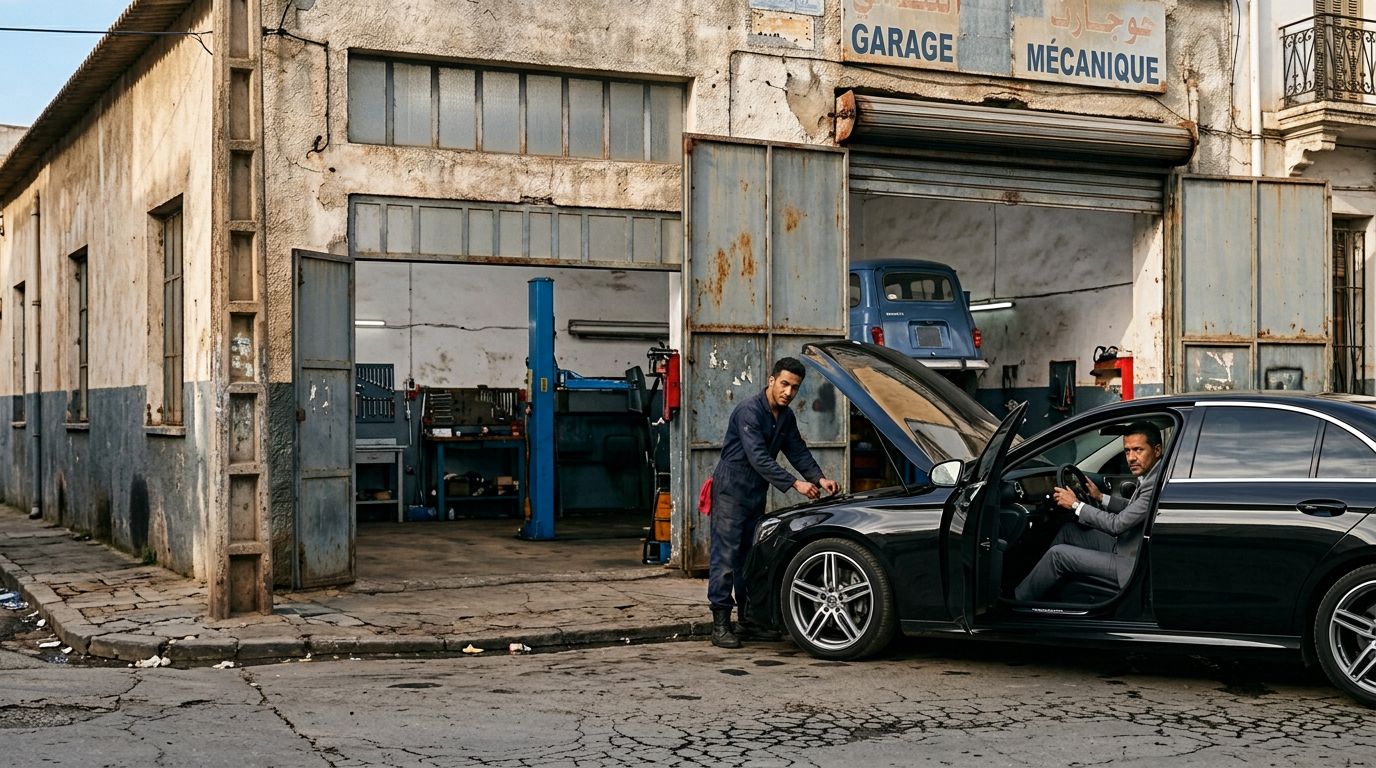
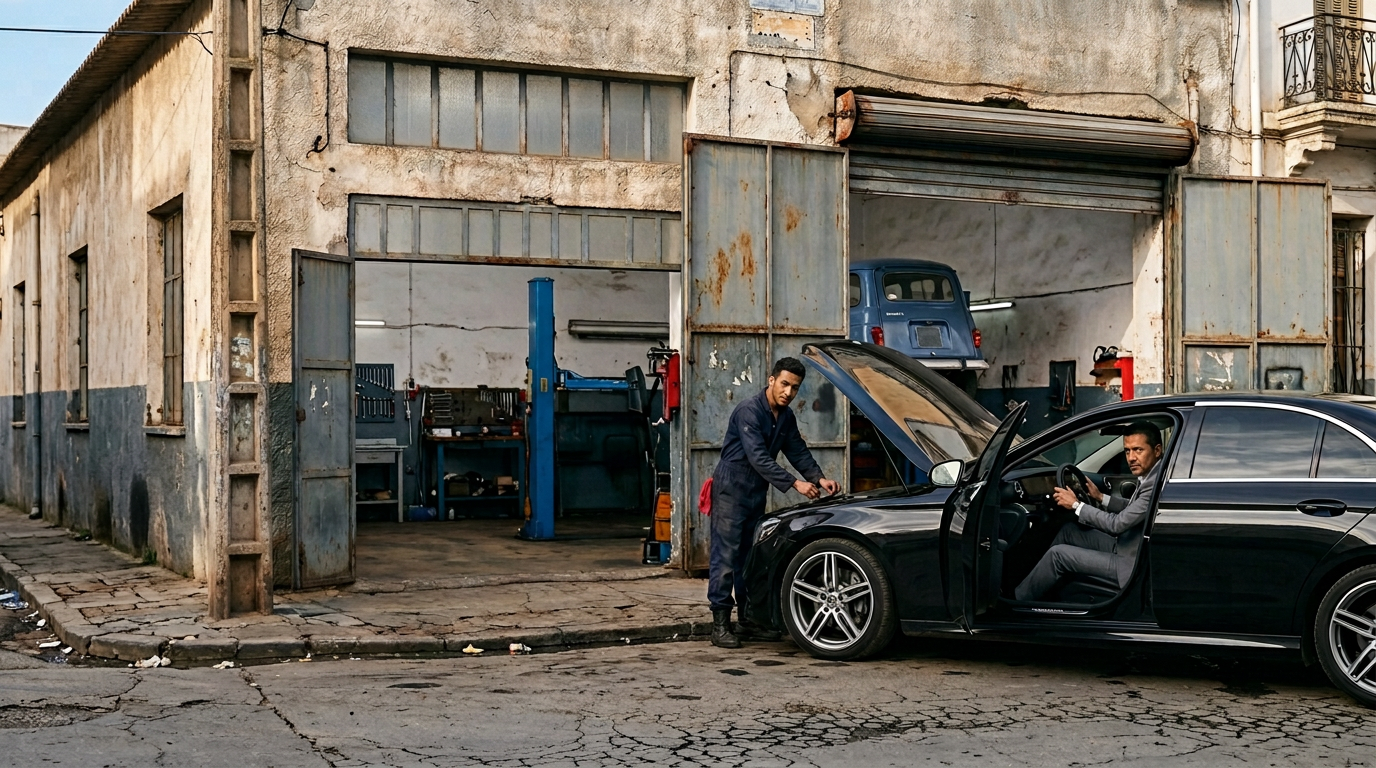
V2 نهائية: إزالة كل الكتابة من اللقطات الخارجية التسع + المرجع الرئيسي (تعديل على الأم) + قرارات التوقيت (SC01/SC18: صوت فوق القطع) + تحديث REVIEWED_FIXED

diff --git a/HIKAYAT_AMINE_EP1/REVIEWED_FIXED/CONTINUITY_AUDIT_REPORT.md b/HIKAYAT_AMINE_EP1/REVIEWED_FIXED/CONTINUITY_AUDIT_REPORT.md
@@ -104,3 +104,13 @@
 | كل برومبت فيديو 10ث/لقطة واحدة/ثابتة/16:9 | ✅ أُصلح بقفل صريح في 19/19 |
 | استمرارية SC01→SC19 بالقطع المباشر | ✅ منطقياً/نصياً • 👁 بصرياً |
 | SC19 ينتهي بالسواد في CapCut فقط | ✅ مؤكد ومقفول |
+
+---
+
+## 8) حالة الإنجاز النهائية (V2 — قرار المدير، 18 أكتوبر)
+
+- ✅ **اللافتة:** طُبّق القرار الموحّد — إزالة كل النصوص/الكتابة من اللقطات الخارجية التسع (SC01_A/B، SC02→SC07، SC12) + المرجع الرئيسي REF_GARAGE_EXTERIOR، بالتعديل على كل صورة نفسها (حفظ الوجوه والمكان). المرجع الجانبي REF_GARAGE_EXT_CORNER يُنظَّف مع أول دفعة توليد قادمة (غير وارد في الفيلم).
+- ✅ **توقيت SC01/SC18:** اعتُمد الخيار 1 (النص حرفياً + إكمال الصوت فوق القطع في CapCut) — موثّق في ملفي البرومبت.
+- ✅ **البرومبتات:** النسخ v1.1 (قفل الكاميرا/الثبات + ضوء الظهر + keyframe تاع SC01 + الكبوتات) هي النسخ النهائية المرفقة في الحزمة.
+- ➖ **بنود 👁 البصرية الأخرى:** بلا دليل مؤكد على خطأ (الفحص الآلي غير متاح) → تُركت الصور كما هي تطبيقاً لقاعدة «نصلح المؤكد فقط».
+- 📦 **الحزمة النهائية V2** على GitHub Release — جاهزة للعمل في Flow مباشرة.
